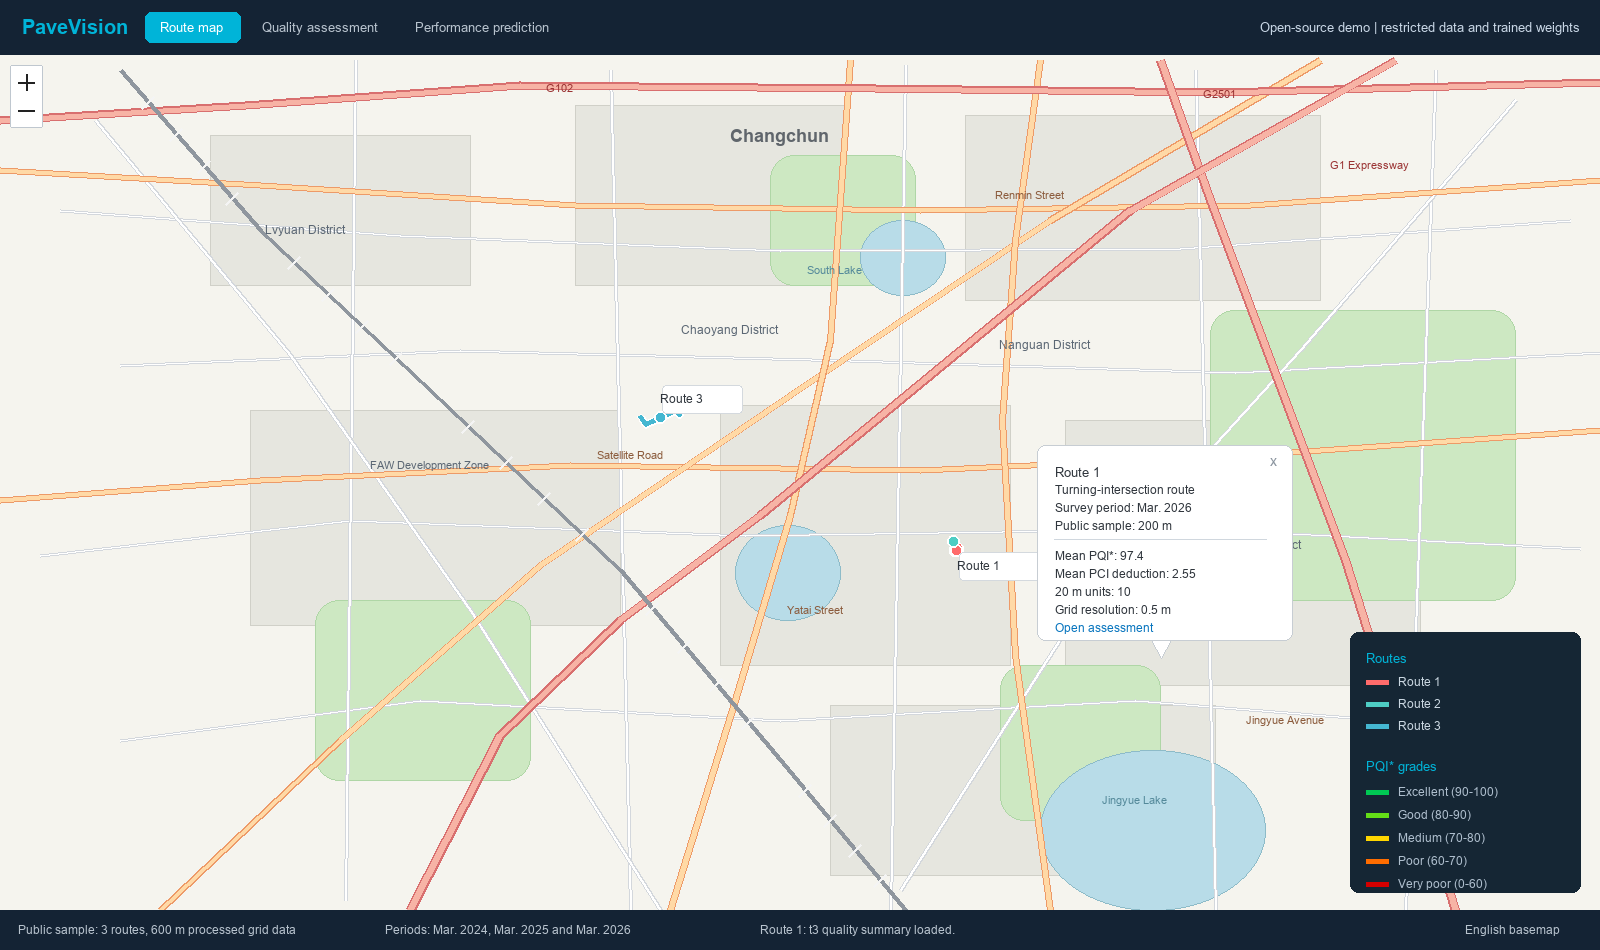
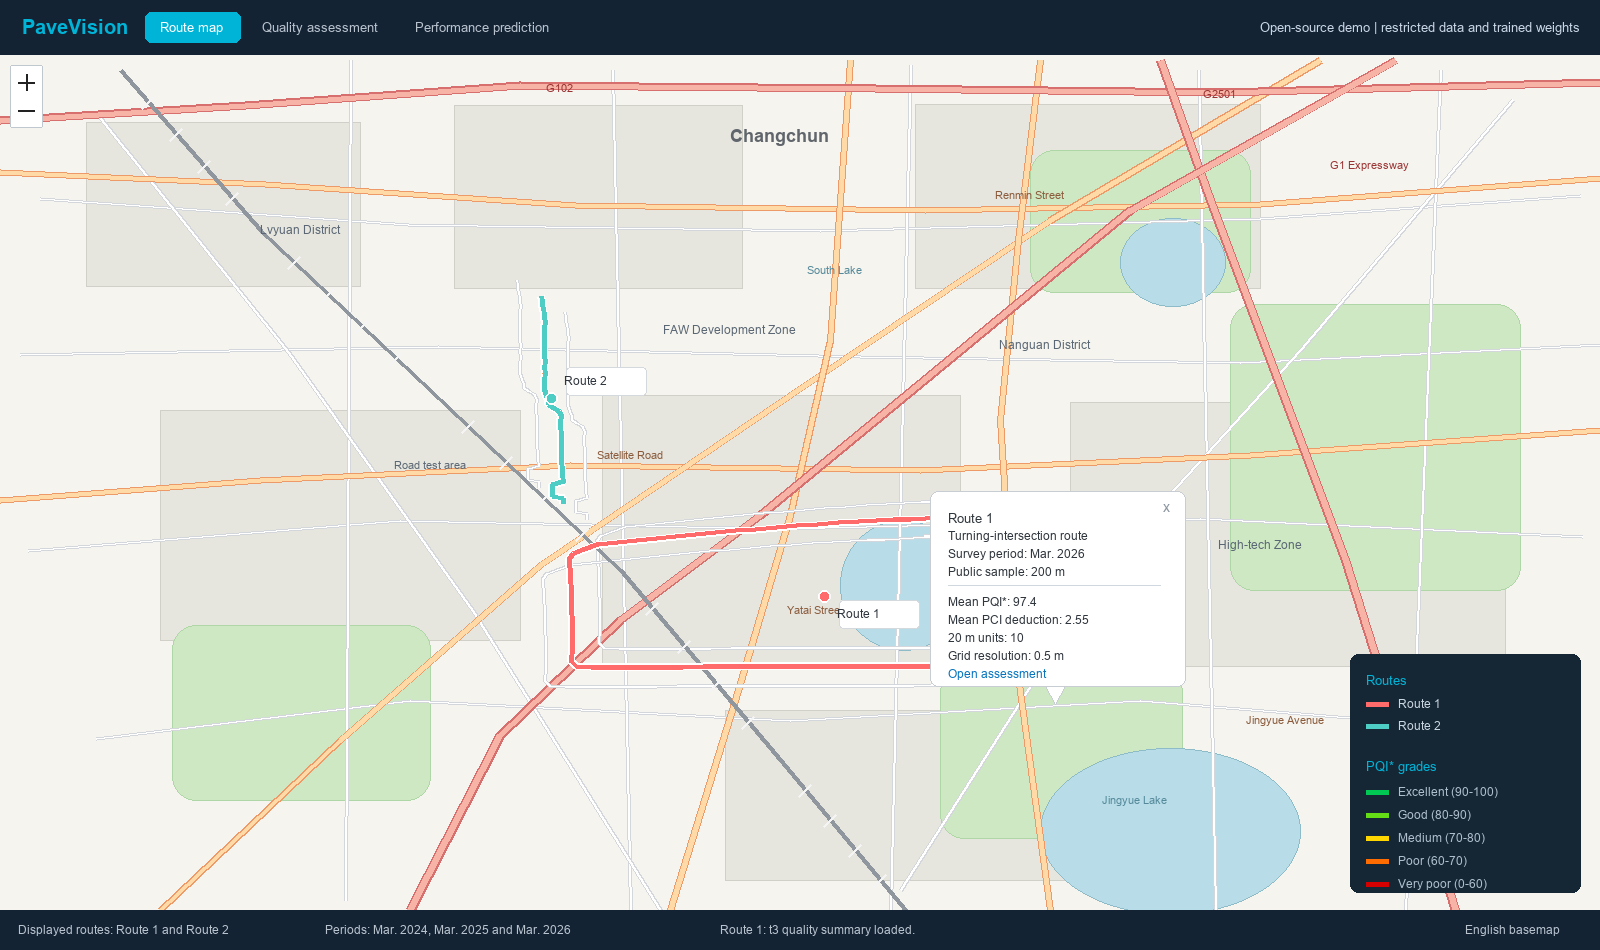
Zoom route preview to displayed trajectories

diff --git a/README.md b/README.md
@@ -10,7 +10,7 @@ PaveVision is an English-language pavement quality assessment and performance-pr
 
 ### Route Map and Quality Popup
 
-The route-map view provides the first entry point for pavement engineers. Clicking a route opens a quality summary popup with the survey period, public sample length, mean PQI*, distress deduction, number of 20 m maintenance units and 0.5 m grid resolution.
+The route-map view provides the first entry point for pavement engineers. The preview below is zoomed to Route 1 and Route 2 so that the GPS traces and nearby road corridors remain visible. Clicking a route opens a quality summary popup with the survey period, public sample length, mean PQI*, distress deduction, number of 20 m maintenance units and 0.5 m grid resolution.
 
 ![PaveVision route map with pavement quality popup](assets/web_route_map_popup.png)
 